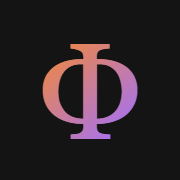
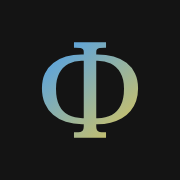
Rebrand hesperus to a blue and gold phi gradient, with an animated README title and the Mengs Hesperus

Changed region(s): [[0.2222, 0.2222, 0.7778, 0.7778]]

diff --git a/frontend/web/style.css b/frontend/web/style.css
@@ -16,11 +16,11 @@
   --bg: #141414;
   --fg: #e0e0e0;
   --muted: #9d9d9d;
-  --accent: #9f81cf;
-  --accent-2: #ce8755;
+  --accent: #6f9fd0;
+  --accent-2: #c4b066;
   --dim: #555555;
-  --glyph-purple: #a371f7;
-  --glyph-orange: #f0883e;
+  --glyph-blue: #4a9ff0;
+  --glyph-gold: #d8c45a;
   --border: #2e2e2e;
   --card: #1b1b1b;
   --tabbar: #0c0c0c;
@@ -39,14 +39,14 @@
   --lift: 0 1px 2px rgb(0 0 0 / 0.3), 0 14px 30px -18px rgb(0 0 0 / 0.8);
   --drop: 0 2px 6px rgb(0 0 0 / 0.35), 0 18px 40px -16px rgb(0 0 0 / 0.85);
   --lift-sm: 0 1px 2px rgb(0 0 0 / 0.35);
-  /* muted companions to the purple, one per kind of thing */
+  /* muted companions to the blue, one per kind of thing */
   --teal: #6fb3a8;
   --sage: #93ad7d;
   --sky: #7fa0c9;
   --rose: #c98ba0;
   --sand: #c4ab78;
   /* graph nodes: self and serving hosts far apart in hue and lightness */
-  --mesh-self: #b48cff;
+  --mesh-self: #8cc4ff;
   --mesh-active: #4fc98a;
   /* page and terminal alike */
   --font: "Geist Mono Variable", ui-monospace, SFMono-Regular, "SF Mono", Menlo, Consolas, monospace;
@@ -67,7 +67,7 @@
   --lift: 0 1px 2px rgb(24 24 27 / 0.05), 0 14px 30px -20px rgb(24 24 27 / 0.22);
   --drop: 0 2px 6px rgb(24 24 27 / 0.08), 0 18px 40px -18px rgb(24 24 27 / 0.3);
   --lift-sm: 0 1px 2px rgb(24 24 27 / 0.08);
-  --mesh-self: #7a4fd6;
+  --mesh-self: #2f7fcf;
   --mesh-active: #2c9a5c;
 }
 
@@ -763,7 +763,7 @@ select.st-pick-in { max-width: 100%; cursor: pointer; text-overflow: ellipsis; }
 
 .about-version { position: absolute; right: 0; bottom: 0; font-size: 0.72rem; line-height: 1.3; letter-spacing: 0.04em; }
 .about-art, .about-version, .brand-text, .who-model, .st-model-mark {
-  background: linear-gradient(120deg, var(--glyph-purple), var(--glyph-orange), var(--glyph-purple), var(--glyph-orange), var(--glyph-purple));
+  background: linear-gradient(120deg, var(--glyph-blue), var(--glyph-gold), var(--glyph-blue), var(--glyph-gold), var(--glyph-blue));
   background-size: 200% 200%;
   -webkit-background-clip: text;
   background-clip: text;
@@ -1000,7 +1000,7 @@ select.st-pick-in { max-width: 100%; cursor: pointer; text-overflow: ellipsis; }
 .mesh-svg .mesh-line-stem { stroke: var(--sage); stroke-width: 0.5; opacity: 0.5; }
 .mesh-svg .mesh-line-stem.touched { stroke: var(--accent); opacity: 0.85; }
 
-/* purple the active path (self, a live request's path and target), green a serving
+/* blue the active path (self, a live request's path and target), green a serving
    host, grey an idle one, sky services, dark grey non-hesperus devices */
 .mesh-svg .mesh-node.active { fill: var(--mesh-active); }
 .mesh-svg .mesh-node.idle { fill: var(--muted); }
@@ -1024,17 +1024,17 @@ select.st-pick-in { max-width: 100%; cursor: pointer; text-overflow: ellipsis; }
 .mesh-legend > span { display: flex; align-items: center; gap: 0.2rem; }
 .mesh-legend-star { color: var(--sand); }
 .mesh-legend-git .db-icon { margin: 0; color: var(--accent); }
-/* a model host's role letters and their legend, in the glyph's shifting purple and orange */
+/* a model host's role letters and their legend, in the glyph's shifting blue and gold */
 .mesh-legend-model {
   width: 0.5rem; text-align: center; font-weight: 600; color: transparent;
-  background: linear-gradient(90deg, var(--glyph-purple), var(--glyph-orange)); -webkit-background-clip: text; background-clip: text;
+  background: linear-gradient(90deg, var(--glyph-blue), var(--glyph-gold)); -webkit-background-clip: text; background-clip: text;
 }
 .mesh-svg .mesh-model-mark { fill: url(#hesperus-grad); font-family: inherit; font-weight: 600; }
 .mesh-svg .mesh-model-mark.down { fill: var(--dim); }
 /* sized to nothing but still rendered: a display:none svg dropping its paints */
 .svg-defs { position: absolute; width: 0; height: 0; overflow: hidden; }
-.hesperus-grad-p { stop-color: var(--glyph-purple); }
-.hesperus-grad-o { stop-color: var(--glyph-orange); }
+.hesperus-grad-b { stop-color: var(--glyph-blue); }
+.hesperus-grad-g { stop-color: var(--glyph-gold); }
 
 /* pulse along a touched path, one lap a second, on its own rAF loop in app.js */
 .mesh-svg .mesh-pulse { fill: var(--accent); }
@@ -1236,7 +1236,7 @@ select.st-pick-in { max-width: 100%; cursor: pointer; text-overflow: ellipsis; }
   background: var(--card); border-left: 2px solid var(--who); box-shadow: var(--lift-sm);
 }
 .msg.mine .bubble { border-left: 0; border-right: 2px solid var(--accent); background: color-mix(in srgb, var(--accent) 12%, var(--card)); }
-.msg.agent .bubble { width: 100%; max-width: 100%; background: none; box-shadow: none; border-left: 1px solid; border-image: linear-gradient(var(--glyph-purple), var(--glyph-orange)) 1; padding: 0.1rem 0 0.1rem 0.75rem; }
+.msg.agent .bubble { width: 100%; max-width: 100%; background: none; box-shadow: none; border-left: 1px solid; border-image: linear-gradient(var(--glyph-blue), var(--glyph-gold)) 1; padding: 0.1rem 0 0.1rem 0.75rem; }
 .msg.at-me .bubble { box-shadow: inset 0 0 0 1px color-mix(in srgb, var(--warn) 55%, transparent); }
 .msg.flash .bubble { animation: msg-flash 1.2s ease-out; }
 @keyframes msg-flash { from { background: color-mix(in srgb, var(--accent) 35%, var(--card)); } }
@@ -1295,7 +1295,7 @@ select.st-pick-in { max-width: 100%; cursor: pointer; text-overflow: ellipsis; }
 .chat-log .md pre, .code-md .md pre { background: var(--bg); border: 1px solid var(--border); padding: 0.45em 0.7em; overflow-x: auto; white-space: pre; }
 .msg.agent .md code, .msg.agent .md pre { background: var(--card); }
 .chat-log .md pre code, .code-md .md pre code { background: none; padding: 0; }
-/* highlighted code in the palette's muted hues, purple for the language's own words */
+/* highlighted code in the palette's muted hues, blue for the language's own words */
 .chat-log .hljs-keyword, .chat-log .hljs-selector-tag, .chat-log .hljs-doctag, .code-md .hljs-keyword, .code-md .hljs-selector-tag, .code-md .hljs-doctag { color: var(--accent); }
 .chat-log .hljs-string, .chat-log .hljs-regexp, .chat-log .hljs-addition, .code-md .hljs-string, .code-md .hljs-regexp, .code-md .hljs-addition { color: var(--sage); }
 .chat-log .hljs-number, .chat-log .hljs-literal, .chat-log .hljs-symbol, .chat-log .hljs-bullet, .code-md .hljs-number, .code-md .hljs-literal, .code-md .hljs-symbol, .code-md .hljs-bullet { color: var(--sand); }
@@ -2003,10 +2003,10 @@ input, textarea { caret-color: var(--accent); }
 }
 /* an agent typing: its caret, mark and name in the models' moving gradient */
 .code-caret.agent, .code-mark.agent {
-  background: linear-gradient(180deg, var(--glyph-purple), var(--glyph-orange), var(--glyph-purple));
+  background: linear-gradient(180deg, var(--glyph-blue), var(--glyph-gold), var(--glyph-blue));
   background-size: 100% 200%; animation: agent-flow 1.6s linear infinite;
 }
-.code-caret.agent .code-caret-name { background: var(--bg); border: 1px solid var(--glyph-purple); font-weight: 600; }
+.code-caret.agent .code-caret-name { background: var(--bg); border: 1px solid var(--glyph-blue); font-weight: 600; }
 .code-caret-name .who-model, .code-who .who-model { display: inline-block; }
 @keyframes agent-flow { to { background-position: 0 200%; } }
 /* as wide as its longest line, so the textarea never scrolls inside itself */
@@ -2088,7 +2088,7 @@ input, textarea { caret-color: var(--accent); }
 #side-mesh[aria-expanded="true"] { color: var(--teal); }
 #side-chat[aria-expanded="true"] { color: var(--accent); }
 #side-model[aria-expanded="true"] > span {
-  background: linear-gradient(180deg, var(--glyph-purple), var(--glyph-orange), var(--glyph-purple)) 0 0 / 100% 200%;
+  background: linear-gradient(180deg, var(--glyph-blue), var(--glyph-gold), var(--glyph-blue)) 0 0 / 100% 200%;
   -webkit-background-clip: text; background-clip: text; color: transparent;
   animation: rail-glyph 6s ease-in-out infinite;
 }

diff --git a/frontend/web/index.html b/frontend/web/index.html
@@ -5,8 +5,8 @@
 <meta name="viewport" content="width=device-width, initial-scale=1">
 <title>hesperus</title>
 <link rel="icon" href="/favicon.ico?v=8" sizes="32x32">
-<link rel="icon" type="image/svg+xml" href="/favicon.svg?v=8">
-<link rel="apple-touch-icon" sizes="180x180" href="/apple-touch-icon.png?v=8">
+<link rel="icon" type="image/svg+xml" href="/favicon.svg?v=9">
+<link rel="apple-touch-icon" sizes="180x180" href="/apple-touch-icon.png?v=9">
 <link rel="preload" href="/vendor/geist-mono.woff2" as="font" type="font/woff2" crossorigin>
 <link rel="stylesheet" href="/style.css">
 <script>
@@ -20,14 +20,14 @@
 </script>
 </head>
 <body>
-<!-- the phi glyph's purple and orange as an svg paint, bands sliding on its 6s ease,
+<!-- the phi glyph's blue and gold as an svg paint, bands sliding on its 6s ease,
 outside #mesh-svg (emptied every redraw) so it never restarts -->
 <svg class="svg-defs" aria-hidden="true" focusable="false">
   <defs>
     <linearGradient id="hesperus-grad" x1="0" y1="0" x2="1" y2="1" spreadMethod="repeat">
-      <stop offset="0" class="hesperus-grad-p"></stop>
-      <stop offset="0.5" class="hesperus-grad-o"></stop>
-      <stop offset="1" class="hesperus-grad-p"></stop>
+      <stop offset="0" class="hesperus-grad-b"></stop>
+      <stop offset="0.5" class="hesperus-grad-g"></stop>
+      <stop offset="1" class="hesperus-grad-b"></stop>
       <animateTransform attributeName="gradientTransform" type="translate" values="0 0;1 1;0 0"
         keyTimes="0;0.5;1" calcMode="spline" keySplines="0.42 0 0.58 1;0.42 0 0.58 1" dur="6s" repeatCount="indefinite"></animateTransform>
     </linearGradient>

diff --git a/frontend/web/app.js b/frontend/web/app.js
@@ -22,7 +22,7 @@ function serviceUrl(route) {
 const serviceKey = (route) => `${route.host}::${route.name}`;
 
 // key -> { win, host, name } for each service opened from here whose tab is
-// still open, driving the touched/purple path and the packet pulse
+// still open, driving the touched/blue path and the packet pulse
 const activeConnections = new Map();
 
 // window.open rather than the anchor's own nav, for a pollable .closed, a
@@ -876,7 +876,7 @@ function drawNode(x, y, name, cls, tooltip, opts) {
 }
 
 // beside a git host: the git service's own glyph for the master, a * for the rest,
-// purple master, sand available, dark grey out of date, red unreachable
+// blue master, sand available, dark grey out of date, red unreachable
 function drawGitMarker(x, y, h, scale = 1) {
   const master = h.reachable && h.role === 'master';
   const state = !h.reachable ? 'down' : master ? 'master' : h.eligible ? 'ok' : 'stale';
@@ -1556,10 +1556,10 @@ const TERM_TAKEN = 4001;
 const RETRY_MIN_MS = 1000;
 const RETRY_MAX_MS = 10000;
 // the sixteen ANSI colors from the page's own tokens, so a restyle reaches
-// terminals too: magenta the accent, yellow its orange, status red and green
+// terminals too: magenta the rose, yellow the gold, status red and green
 const TERM_HUES = {
   red: '--offmesh', green: '--online', yellow: '--accent-2',
-  blue: '--sky', magenta: '--accent', cyan: '--teal',
+  blue: '--sky', magenta: '--rose', cyan: '--teal',
 };
 
 const hexRgb = (h) => [1, 3, 5].map((i) => parseInt(h.slice(i, i + 2), 16));

diff --git a/frontend/cli/hesperus.js b/frontend/cli/hesperus.js
@@ -34,8 +34,8 @@ const GIB = 1024 ** 3;
 // style.css's tokens, light when the terminal's background is
 
 const DARK = {
-  bg: '#141414', fg: '#e0e0e0', muted: '#9d9d9d', accent: '#9f81cf', accent2: '#ce8755', dim: '#555555',
-  glyphPurple: '#a371f7', glyphOrange: '#f0883e', border: '#2e2e2e', card: '#1b1b1b', tabbar: '#0c0c0c',
+  bg: '#141414', fg: '#e0e0e0', muted: '#9d9d9d', accent: '#6f9fd0', accent2: '#c4b066', dim: '#555555',
+  glyphBlue: '#4a9ff0', glyphGold: '#d8c45a', border: '#2e2e2e', card: '#1b1b1b', tabbar: '#0c0c0c',
   online: '#3fb950', offmesh: '#f85149', warn: '#d29922',
   teal: '#6fb3a8', sage: '#93ad7d', sky: '#7fa0c9', rose: '#c98ba0', sand: '#c4ab78',
 };
@@ -116,12 +116,12 @@ const surface = (bgHex, fgHex = PAL.fg) => (s) => `${bgHex === PAL.bg ? PAGE : B
 // the caret: a block in the accent, as input's caret-color
 const caret = () => surface(PAL.accent)(' ');
 
-// .about-art: purple to orange and back across the word
+// .about-art: blue to gold and back across the word
 function gradient(s) {
   const chars = [...s];
   return chars.map((ch, i) => {
     const t = chars.length > 1 ? i / (chars.length - 1) : 0;
-    return `${FG(mix(PAL.glyphPurple, PAL.glyphOrange, t < 0.5 ? t * 2 : (1 - t) * 2))}${ch}`;
+    return `${FG(mix(PAL.glyphBlue, PAL.glyphGold, t < 0.5 ? t * 2 : (1 - t) * 2))}${ch}`;
   }).join('') + FG(PAL.fg);
 }
 

diff --git a/README.md b/README.md
@@ -1,4 +1,15 @@
-# hesperus
+<p align="center">
+  <picture>
+    <source media="(prefers-color-scheme: dark)" srcset=".github/assets/title-dark.svg">
+    <img src=".github/assets/title-light.svg" alt="hesperus" width="360">
+  </picture>
+</p>
+
+<p align="center">
+  <img src=".github/assets/hesperus-mengs.jpg" alt="Hesperus as personification of the evening, Anton Raphael Mengs" width="420">
+  <br>
+  <sub><i>Hesperus als Personifikation des Abends</i>, Anton Raphael Mengs, c. 1765. Public domain, via <a href="https://commons.wikimedia.org/wiki/File:Mengs,_Hesperus_als_Personifikation_des_Abends.jpg">Wikimedia Commons</a>.</sub>
+</p>
 
 One container per machine, each a **host** on the mesh at `BASE_DOMAIN` (`.env`):
 its services published, the others' polled, one web UI and cli for all of them.
